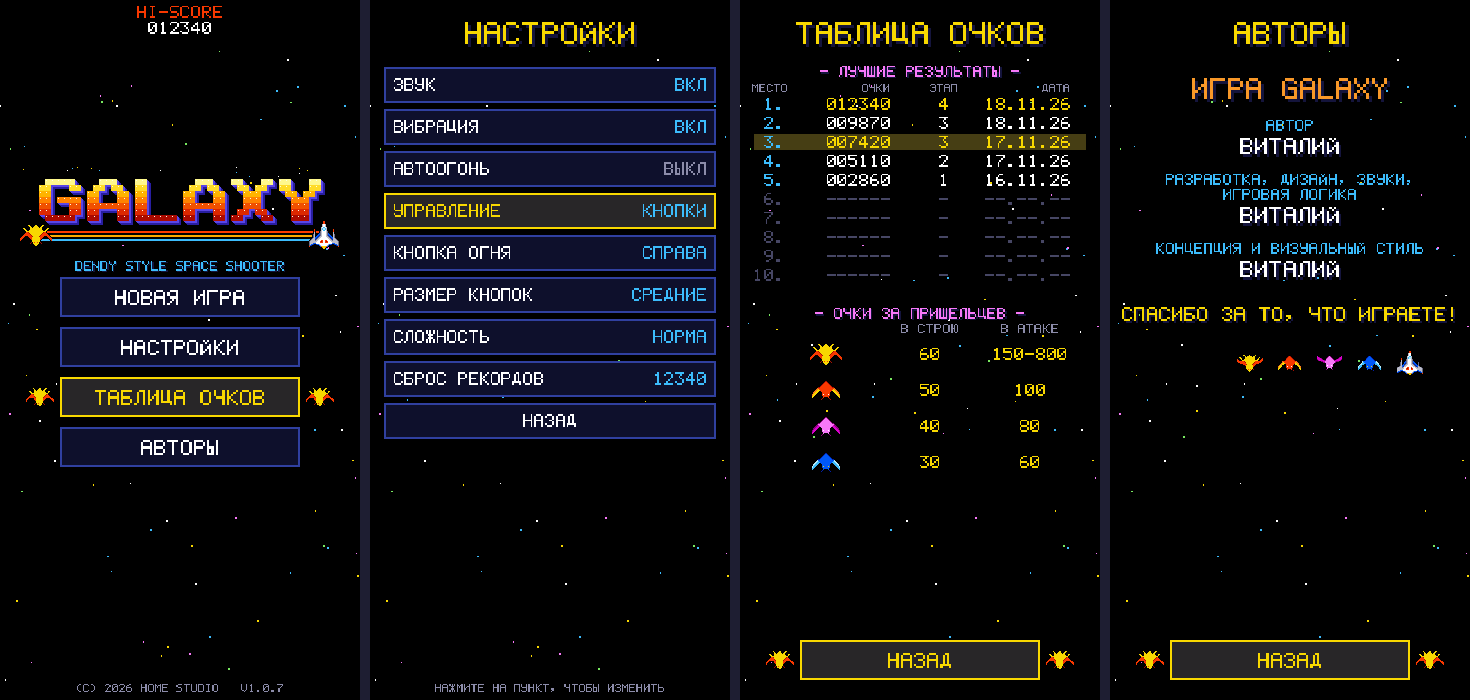
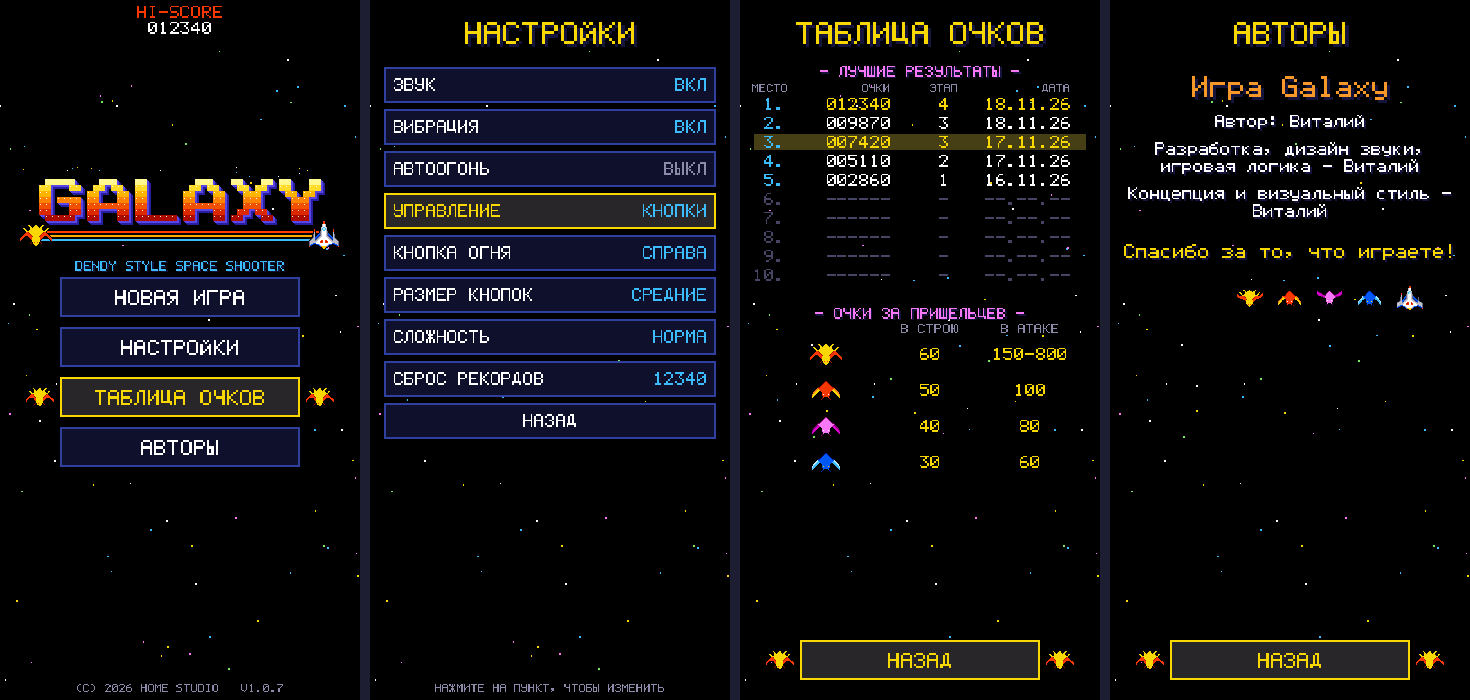
Credits show exact text (lowercase pixel font, word wrap); loading screen copyright: HomeStudio

Changed region(s): [[0.7653, 0.09, 0.9796, 0.48], [0.8265, 0.51, 0.9796, 0.54]]

diff --git a/app/src/main/java/com/vetos26/galaxy/PixelFont.kt b/app/src/main/java/com/vetos26/galaxy/PixelFont.kt
@@ -90,12 +90,67 @@ object PixelFont {
         'Э' to arrayOf(".XXX.", "X...X", "....X", "..XXX", "....X", "X...X", ".XXX."),
         'Ю' to arrayOf("X..X.", "X.X.X", "X.X.X", "XXX.X", "X.X.X", "X.X.X", "X..X."),
         'Я' to arrayOf(".XXXX", "X...X", "X...X", ".XXXX", "..X.X", ".X..X", "X...X"),
+        // ---- lowercase (8 rows: the last one is for descenders)
+        'a' to arrayOf(".....", ".....", ".XXX.", "....X", ".XXXX", "X...X", ".XXXX", "....."),
+        'b' to arrayOf("X....", "X....", "XXXX.", "X...X", "X...X", "X...X", "XXXX.", "....."),
+        'c' to arrayOf(".....", ".....", ".XXX.", "X....", "X....", "X....", ".XXX.", "....."),
+        'd' to arrayOf("....X", "....X", ".XXXX", "X...X", "X...X", "X...X", ".XXXX", "....."),
+        'e' to arrayOf(".....", ".....", ".XXX.", "X...X", "XXXXX", "X....", ".XXX.", "....."),
+        'f' to arrayOf("..XX.", ".X...", "XXX..", ".X...", ".X...", ".X...", ".X...", "....."),
+        'g' to arrayOf(".....", ".....", ".XXXX", "X...X", "X...X", ".XXXX", "....X", ".XXX."),
+        'h' to arrayOf("X....", "X....", "XXXX.", "X...X", "X...X", "X...X", "X...X", "....."),
+        'i' to arrayOf("..X..", ".....", ".XX..", "..X..", "..X..", "..X..", ".XXX.", "....."),
+        'j' to arrayOf("...X.", ".....", "..XX.", "...X.", "...X.", "...X.", "X..X.", ".XX.."),
+        'k' to arrayOf("X....", "X....", "X..X.", "X.X..", "XX...", "X.X..", "X..X.", "....."),
+        'l' to arrayOf(".XX..", "..X..", "..X..", "..X..", "..X..", "..X..", ".XXX.", "....."),
+        'm' to arrayOf(".....", ".....", "XX.X.", "X.X.X", "X.X.X", "X.X.X", "X.X.X", "....."),
+        'n' to arrayOf(".....", ".....", "XXXX.", "X...X", "X...X", "X...X", "X...X", "....."),
+        'o' to arrayOf(".....", ".....", ".XXX.", "X...X", "X...X", "X...X", ".XXX.", "....."),
+        'p' to arrayOf(".....", ".....", "XXXX.", "X...X", "X...X", "XXXX.", "X....", "X...."),
+        'q' to arrayOf(".....", ".....", ".XXXX", "X...X", "X...X", ".XXXX", "....X", "....X"),
+        'r' to arrayOf(".....", ".....", "X.XX.", "XX..X", "X....", "X....", "X....", "....."),
+        's' to arrayOf(".....", ".....", ".XXXX", "X....", ".XXX.", "....X", "XXXX.", "....."),
+        't' to arrayOf(".X...", ".X...", "XXX..", ".X...", ".X...", ".X..X", "..XX.", "....."),
+        'u' to arrayOf(".....", ".....", "X...X", "X...X", "X...X", "X..XX", ".XX.X", "....."),
+        'v' to arrayOf(".....", ".....", "X...X", "X...X", "X...X", ".X.X.", "..X..", "....."),
+        'w' to arrayOf(".....", ".....", "X...X", "X.X.X", "X.X.X", "X.X.X", ".X.X.", "....."),
+        'x' to arrayOf(".....", ".....", "X...X", ".X.X.", "..X..", ".X.X.", "X...X", "....."),
+        'y' to arrayOf(".....", ".....", "X...X", "X...X", "X...X", ".XXXX", "....X", ".XXX."),
+        'z' to arrayOf(".....", ".....", "XXXXX", "...X.", "..X..", ".X...", "XXXXX", "....."),
+        'б' to arrayOf("...XX", ".XX..", "X....", "XXXX.", "X...X", "X...X", ".XXX.", "....."),
+        'в' to arrayOf(".....", ".....", "XXXX.", "X...X", "XXXX.", "X...X", "XXXX.", "....."),
+        'г' to arrayOf(".....", ".....", "XXXXX", "X....", "X....", "X....", "X....", "....."),
+        'д' to arrayOf(".....", ".....", "..XX.", ".X.X.", ".X.X.", ".X.X.", "XXXXX", "X...X"),
+        'ё' to arrayOf(".X.X.", ".....", ".XXX.", "X...X", "XXXXX", "X....", ".XXX.", "....."),
+        'ж' to arrayOf(".....", ".....", "X.X.X", ".XXX.", "..X..", ".XXX.", "X.X.X", "....."),
+        'з' to arrayOf(".....", ".....", "XXXX.", "....X", "..XX.", "....X", "XXXX.", "....."),
+        'и' to arrayOf(".....", ".....", "X...X", "X..XX", "X.X.X", "XX..X", "X...X", "....."),
+        'й' to arrayOf(".X.X.", "..X..", "X...X", "X..XX", "X.X.X", "XX..X", "X...X", "....."),
+        'к' to arrayOf(".....", ".....", "X..X.", "X.X..", "XX...", "X.X..", "X..X.", "....."),
+        'л' to arrayOf(".....", ".....", "..XXX", ".X..X", ".X..X", ".X..X", "X...X", "....."),
+        'м' to arrayOf(".....", ".....", "X...X", "XX.XX", "X.X.X", "X...X", "X...X", "....."),
+        'н' to arrayOf(".....", ".....", "X...X", "X...X", "XXXXX", "X...X", "X...X", "....."),
+        'п' to arrayOf(".....", ".....", "XXXXX", "X...X", "X...X", "X...X", "X...X", "....."),
+        'т' to arrayOf(".....", ".....", "XXXXX", "..X..", "..X..", "..X..", "..X..", "....."),
+        'ф' to arrayOf(".....", "..X..", ".XXX.", "X.X.X", "X.X.X", ".XXX.", "..X..", "..X.."),
+        'ц' to arrayOf(".....", ".....", "X..X.", "X..X.", "X..X.", "X..X.", "XXXXX", "....X"),
+        'ч' to arrayOf(".....", ".....", "X...X", "X...X", ".XXXX", "....X", "....X", "....."),
+        'ш' to arrayOf(".....", ".....", "X.X.X", "X.X.X", "X.X.X", "X.X.X", "XXXXX", "....."),
+        'щ' to arrayOf(".....", ".....", "X.X.X", "X.X.X", "X.X.X", "X.X.X", "XXXXX", "....X"),
+        'ъ' to arrayOf(".....", ".....", "XX...", ".X...", ".XXX.", ".X..X", ".XXX.", "....."),
+        'ы' to arrayOf(".....", ".....", "X...X", "X...X", "XXX.X", "X.X.X", "XXX.X", "....."),
+        'ь' to arrayOf(".....", ".....", "X....", "X....", "XXXX.", "X...X", "XXXX.", "....."),
+        'э' to arrayOf(".....", ".....", ".XXX.", "....X", "..XXX", "....X", ".XXX.", "....."),
+        'ю' to arrayOf(".....", ".....", "X..X.", "X.X.X", "XXX.X", "X.X.X", "X..X.", "....."),
+        'я' to arrayOf(".....", ".....", ".XXXX", "X...X", ".XXXX", "..X.X", "X...X", "....."),
+        '—' to arrayOf(".....", ".....", ".....", "XXXXX", ".....", ".....", "....."),
     )
 
     /** Cyrillic letters drawn with the identical Latin glyph. */
     private val aliases = mapOf(
         'А' to 'A', 'В' to 'B', 'Е' to 'E', 'Ё' to 'E', 'К' to 'K', 'М' to 'M', 'Н' to 'H',
-        'О' to 'O', 'Р' to 'P', 'С' to 'C', 'Т' to 'T', 'Х' to 'X', '—' to '-', '–' to '-',
+        'О' to 'O', 'Р' to 'P', 'С' to 'C', 'Т' to 'T', 'Х' to 'X', '–' to '-',
+        'а' to 'a', 'е' to 'e', 'о' to 'o', 'р' to 'p', 'с' to 'c', 'у' to 'y', 'х' to 'x',
     )
 
     private val glyphs = HashMap<Char, Bitmap>()
@@ -105,12 +160,42 @@ object PixelFont {
 
     init {
         for ((ch, rows) in glyphData) {
-            val bmp = Bitmap.createBitmap(GLYPH_W, GLYPH_H, Bitmap.Config.ARGB_8888)
-            for (y in 0 until GLYPH_H) for (x in 0 until GLYPH_W) {
+            val bmp = Bitmap.createBitmap(GLYPH_W, rows.size, Bitmap.Config.ARGB_8888)
+            for (y in rows.indices) for (x in 0 until GLYPH_W) {
                 if (rows[y][x] == 'X') bmp.setPixel(x, y, Color.WHITE)
             }
             glyphs[ch] = bmp
         }
+    }
+
+    /** Exact glyph, Latin look-alike, or the uppercase variant if a lowercase glyph is missing. */
+    private fun glyphFor(ch: Char): Bitmap? {
+        glyphs[ch]?.let { return it }
+        aliases[ch]?.let { a -> glyphs[a]?.let { return it } }
+        val up = ch.uppercaseChar()
+        if (up != ch) {
+            glyphs[up]?.let { return it }
+            aliases[up]?.let { a -> glyphs[a]?.let { return it } }
+        }
+        return null
+    }
+
+    /** Splits [text] into lines (by words) that fit into [maxWidth] at the given [size]. */
+    fun wrap(text: String, size: Float, maxWidth: Float): List<String> {
+        val out = ArrayList<String>()
+        var cur = ""
+        for (word in text.split(' ')) {
+            if (word.isEmpty()) continue
+            val candidate = if (cur.isEmpty()) word else "$cur $word"
+            if (cur.isNotEmpty() && width(candidate, size) > maxWidth) {
+                out.add(cur)
+                cur = word
+            } else {
+                cur = candidate
+            }
+        }
+        if (cur.isNotEmpty()) out.add(cur)
+        return out
     }
 
     fun width(text: String, size: Float) = if (text.isEmpty()) 0f else (text.length * (GLYPH_W + 1) - 1) * size
@@ -125,10 +210,10 @@ object PixelFont {
         }
         paint.colorFilter = filters.getOrPut(color) { PorterDuffColorFilter(color, PorterDuff.Mode.SRC_IN) }
         paint.alpha = alpha
-        for (ch in text.uppercase()) {
-            val g = glyphs[ch] ?: aliases[ch]?.let { glyphs[it] }
+        for (ch in text) {
+            val g = glyphFor(ch)
             if (g != null) {
-                rect.set(cx, y, cx + GLYPH_W * size, y + GLYPH_H * size)
+                rect.set(cx, y, cx + GLYPH_W * size, y + g.height * size)
                 c.drawBitmap(g, null, rect, paint)
             }
             cx += (GLYPH_W + 1) * size

diff --git a/app/src/main/java/com/vetos26/galaxy/Credits.kt b/app/src/main/java/com/vetos26/galaxy/Credits.kt
@@ -1,0 +1,66 @@
+package com.vetos26.galaxy
+
+import android.graphics.Canvas
+import android.graphics.Color
+import com.vetos26.galaxy.PixelFont.Align
+import kotlin.math.min
+
+/**
+ * Credits text, shown on the loading screen and in the "Авторы" menu section.
+ * Edit the lines here — both screens update automatically. Long lines are wrapped by words.
+ */
+object Credits {
+
+    enum class Style { TITLE, LINE, THANKS }
+
+    val lines = listOf(
+        "Игра Galaxy" to Style.TITLE,
+        "Автор: Виталий" to Style.LINE,
+        "Разработка, дизайн звуки, игровая логика — Виталий" to Style.LINE,
+        "Концепция и визуальный стиль — Виталий" to Style.LINE,
+        "Спасибо за то, что играете!" to Style.THANKS,
+    )
+
+    private val orange = Color.rgb(248, 152, 40)
+    private val yellow = Color.rgb(248, 216, 0)
+    private const val MAX_WIDTH = Game.VW - 28f
+
+    /**
+     * Draws the credits block, centred horizontally, starting at [top].
+     * [compact] = smaller spacing (loading screen). [alpha] 0..255 for fade-in.
+     * @return y coordinate right below the block.
+     */
+    fun draw(c: Canvas, top: Float, compact: Boolean = false, alpha: Int = 255): Float {
+        var y = top
+        val cx = Game.VW / 2f
+        for ((text, style) in lines) {
+            when (style) {
+                Style.TITLE -> {
+                    val size = if (compact) 2.6f else 3f
+                    shadow(c, text, cx, y, size, orange, alpha)
+                    y += 7f * size + if (compact) 12f else 18f
+                }
+                Style.LINE -> {
+                    val size = if (compact) 1.6f else 1.8f
+                    for (line in PixelFont.wrap(text, size, MAX_WIDTH)) {
+                        shadow(c, line, cx, y, size, Color.WHITE, alpha)
+                        y += 8f * size + 3f
+                    }
+                    y += if (compact) 6f else 10f
+                }
+                Style.THANKS -> {
+                    y += if (compact) 4f else 12f
+                    val size = min(if (compact) 2f else 2.2f, MAX_WIDTH / PixelFont.width(text, 1f))
+                    shadow(c, text, cx, y, size, yellow, alpha)
+                    y += 8f * size + 4f
+                }
+            }
+        }
+        return y
+    }
+
+    private fun shadow(c: Canvas, text: String, x: Float, y: Float, size: Float, color: Int, alpha: Int) {
+        PixelFont.draw(c, text, x + size, y + size, size, Color.rgb(20, 20, 60), Align.CENTER, alpha)
+        PixelFont.draw(c, text, x, y, size, color, Align.CENTER, alpha)
+    }
+}

diff --git a/app/src/main/java/com/vetos26/galaxy/Menu.kt b/app/src/main/java/com/vetos26/galaxy/Menu.kt
@@ -49,22 +49,9 @@ class Menu(
     private val pauseItems = arrayOf("ПРОДОЛЖИТЬ", "НАСТРОЙКИ", "ГЛАВНОЕ МЕНЮ")
     private val settingsCount = 9
 
-    /**
-     * Credits: first = text, second = style. Edit freely.
-     * 0 - section title, 4 - continuation of a section title, 1 - name,
-     * 3 - big title, 2 - big closing line.
-     */
-    private val credits = listOf(
-        "ИГРА GALAXY" to 3,
-        "АВТОР" to 0, "ВИТАЛИЙ" to 1,
-        "РАЗРАБОТКА, ДИЗАЙН, ЗВУКИ," to 0, "ИГРОВАЯ ЛОГИКА" to 4, "ВИТАЛИЙ" to 1,
-        "КОНЦЕПЦИЯ И ВИЗУАЛЬНЫЙ СТИЛЬ" to 0, "ВИТАЛИЙ" to 1,
-        "СПАСИБО ЗА ТО, ЧТО ИГРАЕТЕ!" to 2,
-    )
 
     // ------------------------------------------------------------ colors
     private val yellow = Color.rgb(248, 216, 0)
-    private val orange = Color.rgb(248, 152, 40)
     private val red = Color.rgb(248, 56, 0)
     private val cyan = Color.rgb(60, 188, 252)
     private val pink = Color.rgb(248, 120, 248)
@@ -379,36 +366,7 @@ class Menu(
 
     private fun drawCredits(c: Canvas) {
         PixelFont.drawShadow(c, "АВТОРЫ", Game.VW / 2f, top + 22f, 3.2f, yellow, Align.CENTER)
-        var y = top + 78f
-        for ((text, style) in credits) {
-            when (style) {
-                0 -> {
-                    y += 16f
-                    PixelFont.draw(c, text, Game.VW / 2f, y, 1.6f, cyan, Align.CENTER)
-                    y += 15f
-                }
-                4 -> {
-                    PixelFont.draw(c, text, Game.VW / 2f, y, 1.6f, cyan, Align.CENTER)
-                    y += 15f
-                }
-                1 -> {
-                    y += 3f
-                    PixelFont.drawShadow(c, text, Game.VW / 2f, y, 2.4f, Color.WHITE, Align.CENTER)
-                    y += 20f
-                }
-                3 -> {
-                    PixelFont.drawShadow(c, text, Game.VW / 2f, y, 3f, orange, Align.CENTER)
-                    y += 26f
-                }
-                else -> {
-                    y += 26f
-                    // shrink long lines so they always fit the screen width
-                    val size = min(2.4f, (Game.VW - 24f) / PixelFont.width(text, 1f))
-                    PixelFont.drawShadow(c, text, Game.VW / 2f, y, size, yellow, Align.CENTER)
-                    y += 7f * size + 8f
-                }
-            }
-        }
+        val y = Credits.draw(c, top + 76f)
         // parade of aliens chasing the ship
         val py = min(y + 34f, itemCenterY(0) - 44f)
         val frame = if (blink(6f)) 1 else 2

diff --git a/app/src/main/java/com/vetos26/galaxy/Game.kt b/app/src/main/java/com/vetos26/galaxy/Game.kt
@@ -808,7 +808,7 @@ class Game(context: Context) {
         PixelFont.drawShadow(c, "ЗАГРУЗКА$dots", bx, by + 22f, 2f, WHITE)
         PixelFont.drawShadow(c, "${(p * 100).toInt()}%", bx + bw, by + 22f, 2f, YELLOW, Align.RIGHT)
 
-        PixelFont.draw(c, "(C) 2026 HOME STUDIO", VW / 2f, vh - 40f, 1.5f, GREY, Align.CENTER)
+        PixelFont.draw(c, "(C) 2026 HomeStudio", VW / 2f, vh - 40f, 1.5f, GREY, Align.CENTER)
         PixelFont.draw(c, "MADE WITH KOTLIN", VW / 2f, vh - 24f, 1.5f, GREY, Align.CENTER)
     }
 

diff --git a/tools/make_menu_mockup.py b/tools/make_menu_mockup.py
@@ -28,8 +28,8 @@ class Screen:
         if shadow: s.text(t, x+size, y+size, size, (20,20,60), align)
         w = (len(t)*6-1)*size
         x -= w/2 if align == 'c' else (w if align == 'r' else 0)
-        for ch in t.upper():
-            for r, row in enumerate(FONT.get(ch, [])):
+        for ch in t:
+            for r, row in enumerate(FONT.get(ch) or FONT.get(ch.upper(), [])):
                 for c, v in enumerate(row):
                     if v == 'X':
                         s.d.rectangle([(x+c*size)*K, (y+r*size)*K, (x+(c+1)*size)*K-1, (y+(r+1)*size)*K-1], fill=col)
@@ -106,16 +106,24 @@ s.save('menu_settings.png')
 # credits
 s = Screen()
 s.text('АВТОРЫ', 180, 22, 3.2, YEL, 'c', True)
-mk = re.search(r'private val credits = listOf\((.*?)\n    \)', open(os.path.join(ROOT, 'app/src/main/java/com/vetos26/galaxy/Menu.kt'), encoding='utf-8').read(), re.S).group(1)
-y = 78
+ck = open(os.path.join(ROOT, 'app/src/main/java/com/vetos26/galaxy/Credits.kt'), encoding='utf-8').read()
 ORANGE = (248, 152, 40)
-for t, st in re.findall(r'"([^"]*)" to (\d)', mk):
-    if st == '0': y += 16; s.text(t, 180, y, 1.6, CY, 'c'); y += 15
-    elif st == '4': s.text(t, 180, y, 1.6, CY, 'c'); y += 15
-    elif st == '1': y += 3; s.text(t, 180, y, 2.4, WHITE, 'c', True); y += 20
-    elif st == '3': s.text(t, 180, y, 3, ORANGE, 'c', True); y += 26
+def wrap(t, size, maxw):
+    out, cur = [], ''
+    for w in t.split(' '):
+        cand = w if not cur else cur + ' ' + w
+        if cur and (len(cand) * 6 - 1) * size > maxw: out.append(cur); cur = w
+        else: cur = cand
+    return out + ([cur] if cur else [])
+y = 76
+MAXW = VW - 28
+for t, st in re.findall(r'"([^"]*)" to Style\.(\w+)', ck):
+    if st == 'TITLE': s.text(t, 180, y, 3, ORANGE, 'c', True); y += 21 + 18
+    elif st == 'LINE':
+        for line in wrap(t, 1.8, MAXW): s.text(line, 180, y, 1.8, WHITE, 'c', True); y += 8 * 1.8 + 3
+        y += 10
     else:
-        y += 26; sz = min(2.4, (VW - 24) / (len(t) * 6 - 1)); s.text(t, 180, y, sz, YEL, 'c', True); y += 7 * sz + 8
+        y += 12; sz = min(2.2, MAXW / (len(t) * 6 - 1)); s.text(t, 180, y, sz, YEL, 'c', True); y += 8 * sz + 4
 py = y + 34
 for i, n in enumerate(['player', 'enemy_blue_1', 'enemy_purple_2', 'enemy_red_1', 'enemy_flagship_2']):
     s.spr(n, 300 - i*40, py, 28 if i == 0 else 26)
